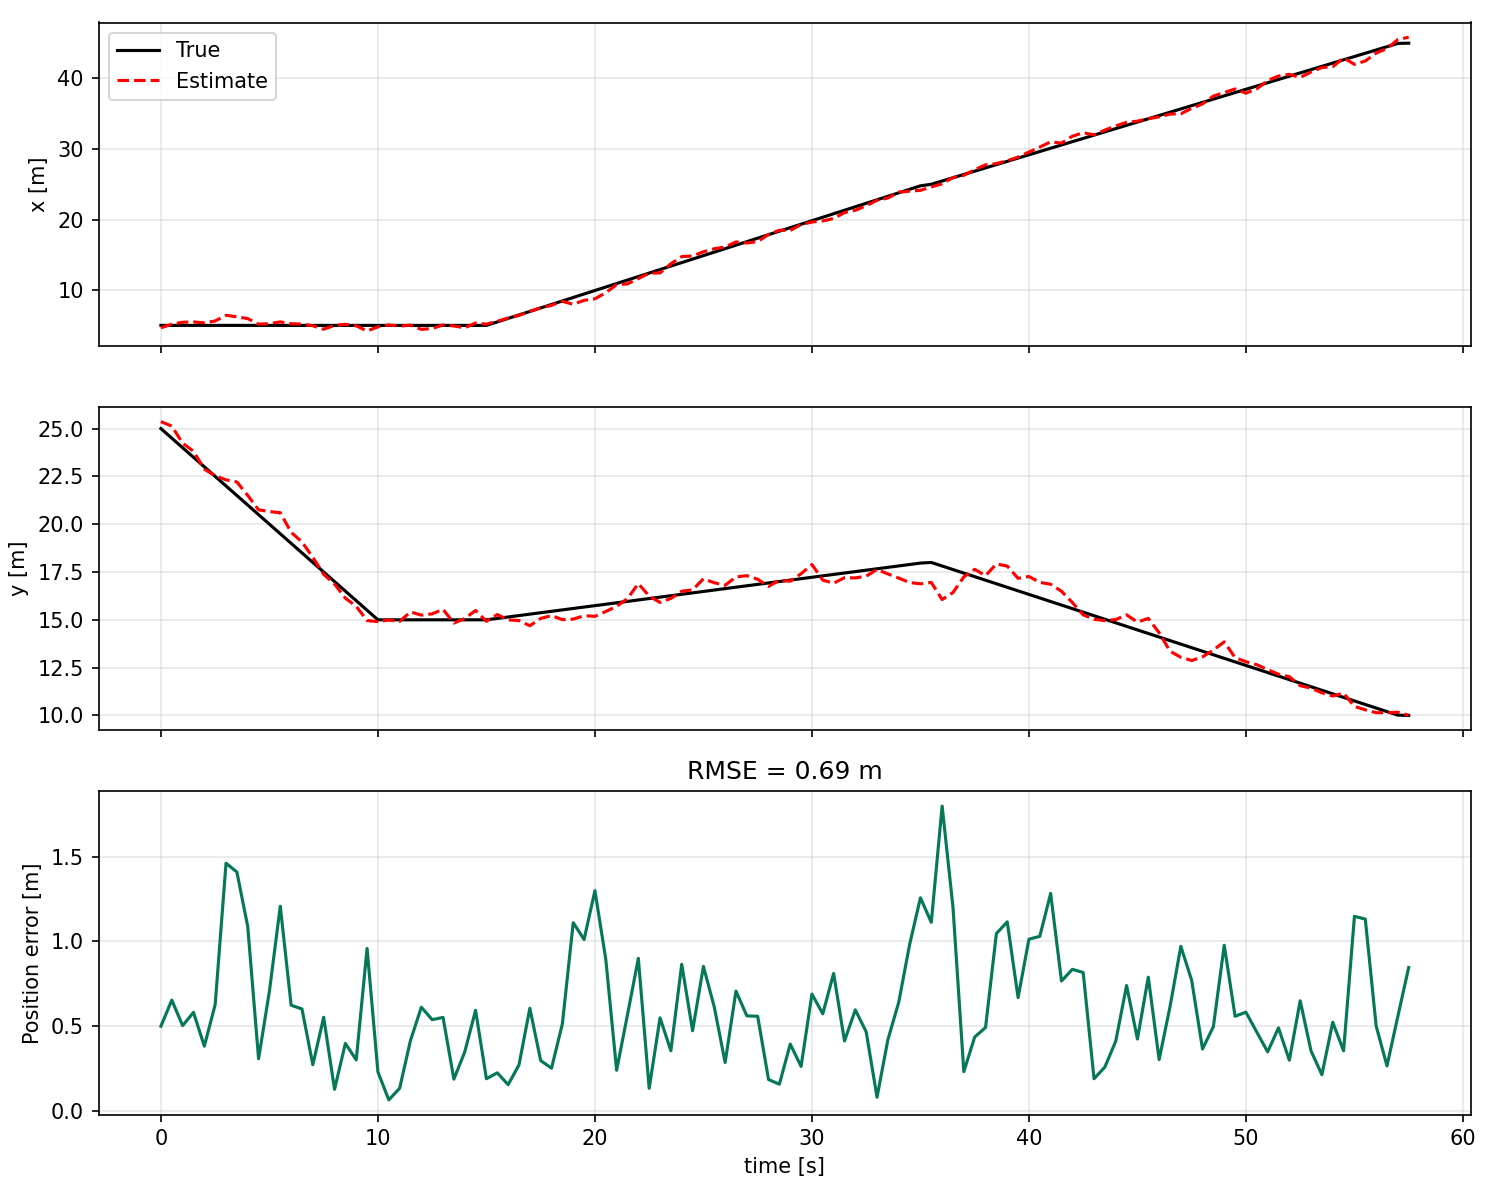
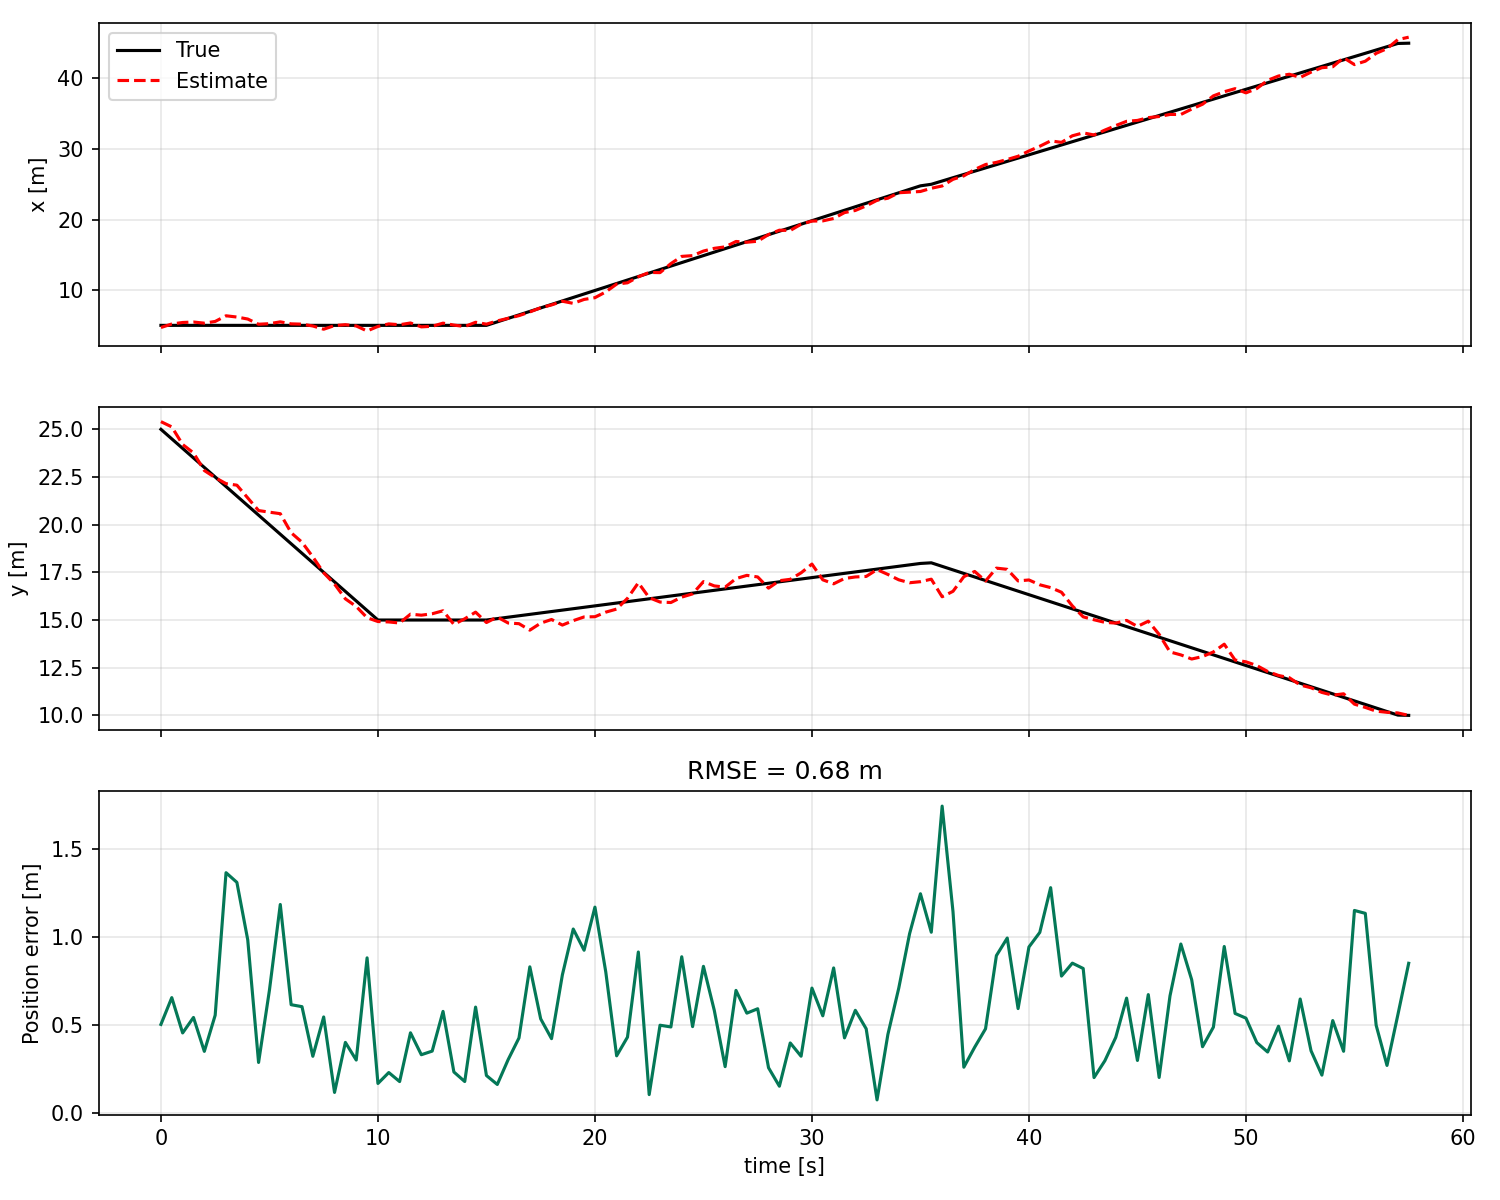
Update project

diff --git a/agv_tdoa_ekf.py b/agv_tdoa_ekf.py
@@ -76,7 +76,7 @@ DROPOFF_INDEX = 3
 SENSOR_GEOMETRIES_4 = {
     "G1_corner_coverage": np.array(
         [
-            [1.0, 1.0],
+            [0.0, 10.0],
             [49.0, 1.0],
             [49.0, 29.0],
             [1.0, 29.0],
@@ -85,7 +85,7 @@ SENSOR_GEOMETRIES_4 = {
     ),
     "G2_task_oriented": np.array(
         [
-            [3.0, 27.5],
+            [0.0, 10.0],
             [24.0, 27.5],
             [28.0, 15.5],
             [48.0, 11.0],
@@ -94,7 +94,7 @@ SENSOR_GEOMETRIES_4 = {
     ),
     "G3_poor_same_wall": np.array(
         [
-            [2.0, 2.0],
+            [0.0, 10.0],
             [17.0, 2.0],
             [33.0, 2.0],
             [48.0, 2.0],
@@ -106,7 +106,7 @@ SENSOR_GEOMETRIES_4 = {
 
 SENSOR_POOL_MAX_10 = np.array(
     [
-        [1.0, 1.0],
+        [0.0, 10.0],
         [49.0, 1.0],
         [49.0, 29.0],
         [1.0, 29.0],

diff --git a/README.md b/README.md
@@ -270,11 +270,11 @@ Bir sonraki proje adimi icin 4 sensor sayisi sabit tutulup 3 farkli yerlesim tes
 
 ### G1 Corner Coverage
 
-Alan koselerine yakin dengeli yerlesimdir. Bu geometri ana senaryo olarak kullanilir.
+Alan koselerine yakin dengeli yerlesimdir. Bu geometri ana senaryo olarak kullanilir. A1, kullanici revizyonuna gore B3 duvarinin sol ucuna alinmistir.
 
 | Anchor | x [m] | y [m] |
 |---|---:|---:|
-| A1 | 1.0 | 1.0 |
+| A1 | 0.0 | 10.0 |
 | A2 | 49.0 | 1.0 |
 | A3 | 49.0 | 29.0 |
 | A4 | 1.0 | 29.0 |
@@ -285,18 +285,18 @@ Robotun gorev rotasina ve drop-off alanina daha yakin anchorlar icerir. Pratikte
 
 | Anchor | x [m] | y [m] |
 |---|---:|---:|
-| A1 | 3.0 | 27.5 |
+| A1 | 0.0 | 10.0 |
 | A2 | 24.0 | 27.5 |
 | A3 | 28.0 | 15.5 |
 | A4 | 48.0 | 11.0 |
 
 ### G3 Poor Same Wall
 
-Kotu geometri ornegidir. Anchorlar neredeyse ayni alt duvar hattindadir. Bu dizilim TDOA icin y yonundeki bilgiyi zayiflatir.
+Kotu geometri ornegidir. A1 B3 duvarinin sol ucunda sabit tutulurken diger anchorlar alt hatta yakin secilmistir. Bu dizilim TDOA icin y yonundeki bilgiyi zayiflatir.
 
 | Anchor | x [m] | y [m] |
 |---|---:|---:|
-| A1 | 2.0 | 2.0 |
+| A1 | 0.0 | 10.0 |
 | A2 | 17.0 | 2.0 |
 | A3 | 33.0 | 2.0 |
 | A4 | 48.0 | 2.0 |
@@ -305,9 +305,9 @@ Son calistirma sonucu:
 
 | Geometri | Ortalama RMSE [m] | RMSE std [m] | Ortalama kosul sayisi |
 |---|---:|---:|---:|
-| G1 corner coverage | 0.814 | 0.071 | 3.666 |
-| G2 task oriented | 1.860 | 1.119 | 35.203 |
-| G3 poor same wall | 14.607 | 0.025 | 51.801 |
+| G1 corner coverage | 0.832 | 0.077 | 4.796 |
+| G2 task oriented | 1.387 | 0.286 | 21.713 |
+| G3 poor same wall | 2.829 | 2.038 | 42.051 |
 
 Yorum: G1 en dengeli sonuc verir. G3'un hatasi cok yuksektir cunku sensorler ayni hatta toplandiginda TDOA hiperbol kesismeleri kotu kosullanir. G2 rota yakinligi acisindan mantikli gorunse de NLOS etkisi ve kosullama nedeniyle G1 kadar basarili degildir.
 
@@ -326,7 +326,7 @@ Kullanilan 10 sensorluk maksimum havuz:
 
 | Sira | x [m] | y [m] | Aciklama |
 |---|---:|---:|---|
-| 1 | 1.0 | 1.0 | Sol alt kose, referans |
+| 1 | 0.0 | 10.0 | B3 duvarinin sol ucu, referans A1 |
 | 2 | 49.0 | 1.0 | Sag alt kose |
 | 3 | 49.0 | 29.0 | Sag ust kose |
 | 4 | 1.0 | 29.0 | Sol ust kose |
@@ -341,12 +341,12 @@ Son calistirma sonucu:
 
 | Sensor sayisi | Ortalama RMSE [m] |
 |---:|---:|
-| 4 | 0.825 |
-| 5 | 0.780 |
-| 6 | 0.756 |
-| 7 | 0.768 |
-| 8 | 0.737 |
-| 9 | 0.755 |
+| 4 | 0.843 |
+| 5 | 0.796 |
+| 6 | 0.772 |
+| 7 | 0.795 |
+| 8 | 0.743 |
+| 9 | 0.759 |
 | 10 | 0.744 |
 
 Yorum: En iyi ortalama sonuc bu calistirmada 8 sensor civarinda goruldu. Daha fazla sensor eklemek her zaman monoton iyilesme saglamaz; cunku yeni eklenen anchorlarin belirli rota bolumlerinde NLOS olcumu uretmesi ve TDOA referans yapisinin dogrusal olmayan etkileri performansi etkiler. Bu bulgu raporda "sensor sayisi artisi geometri ve NLOS kosullariyla birlikte degerlendirilmelidir" seklinde yorumlanabilir.